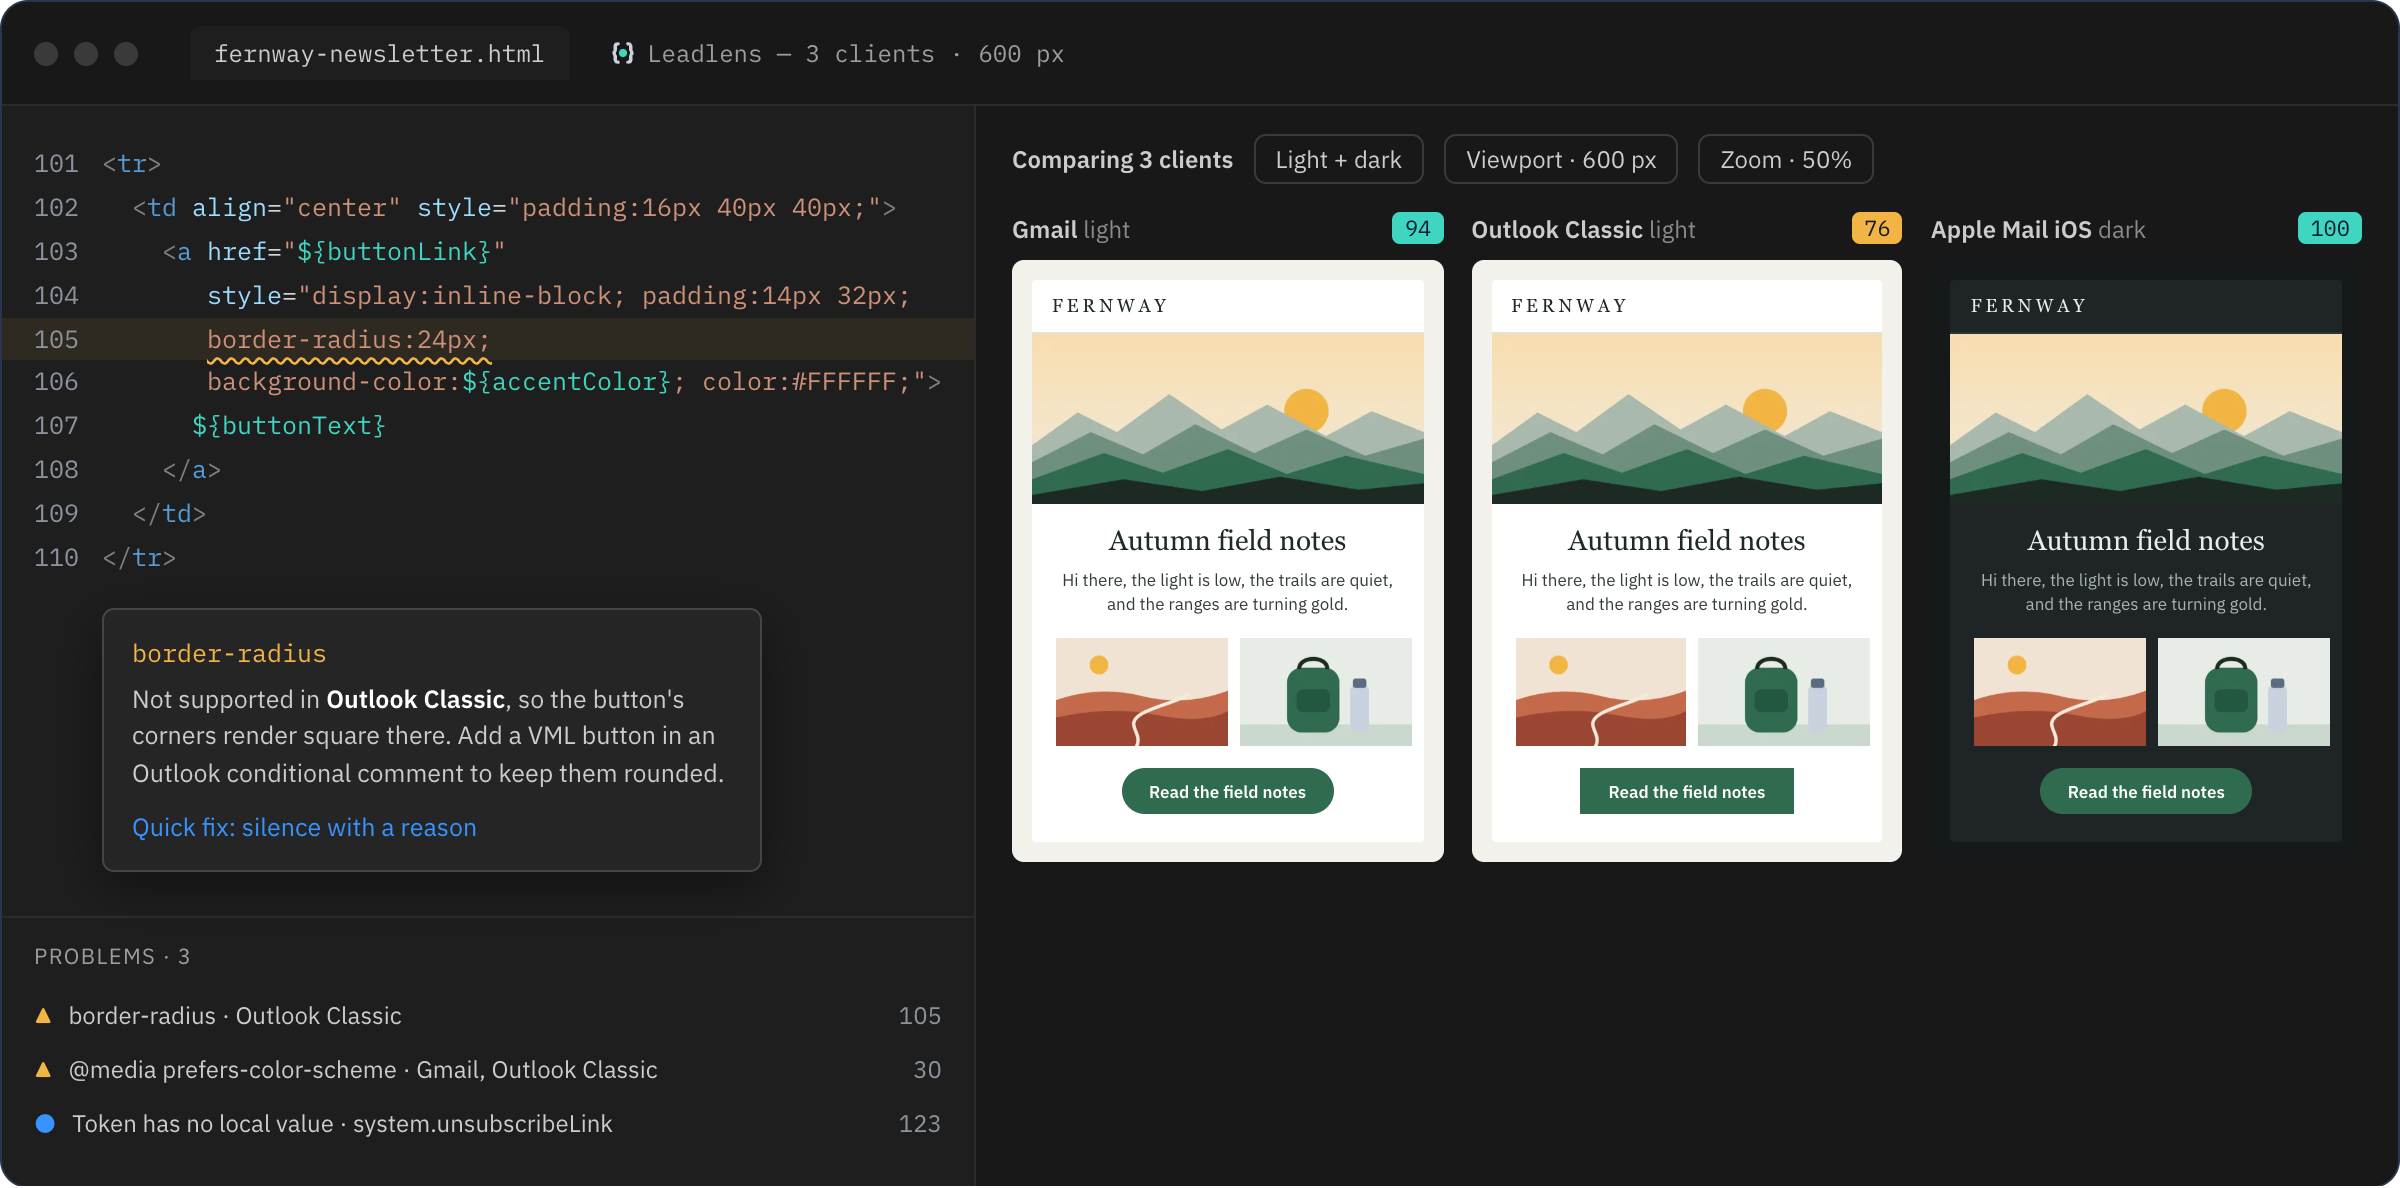
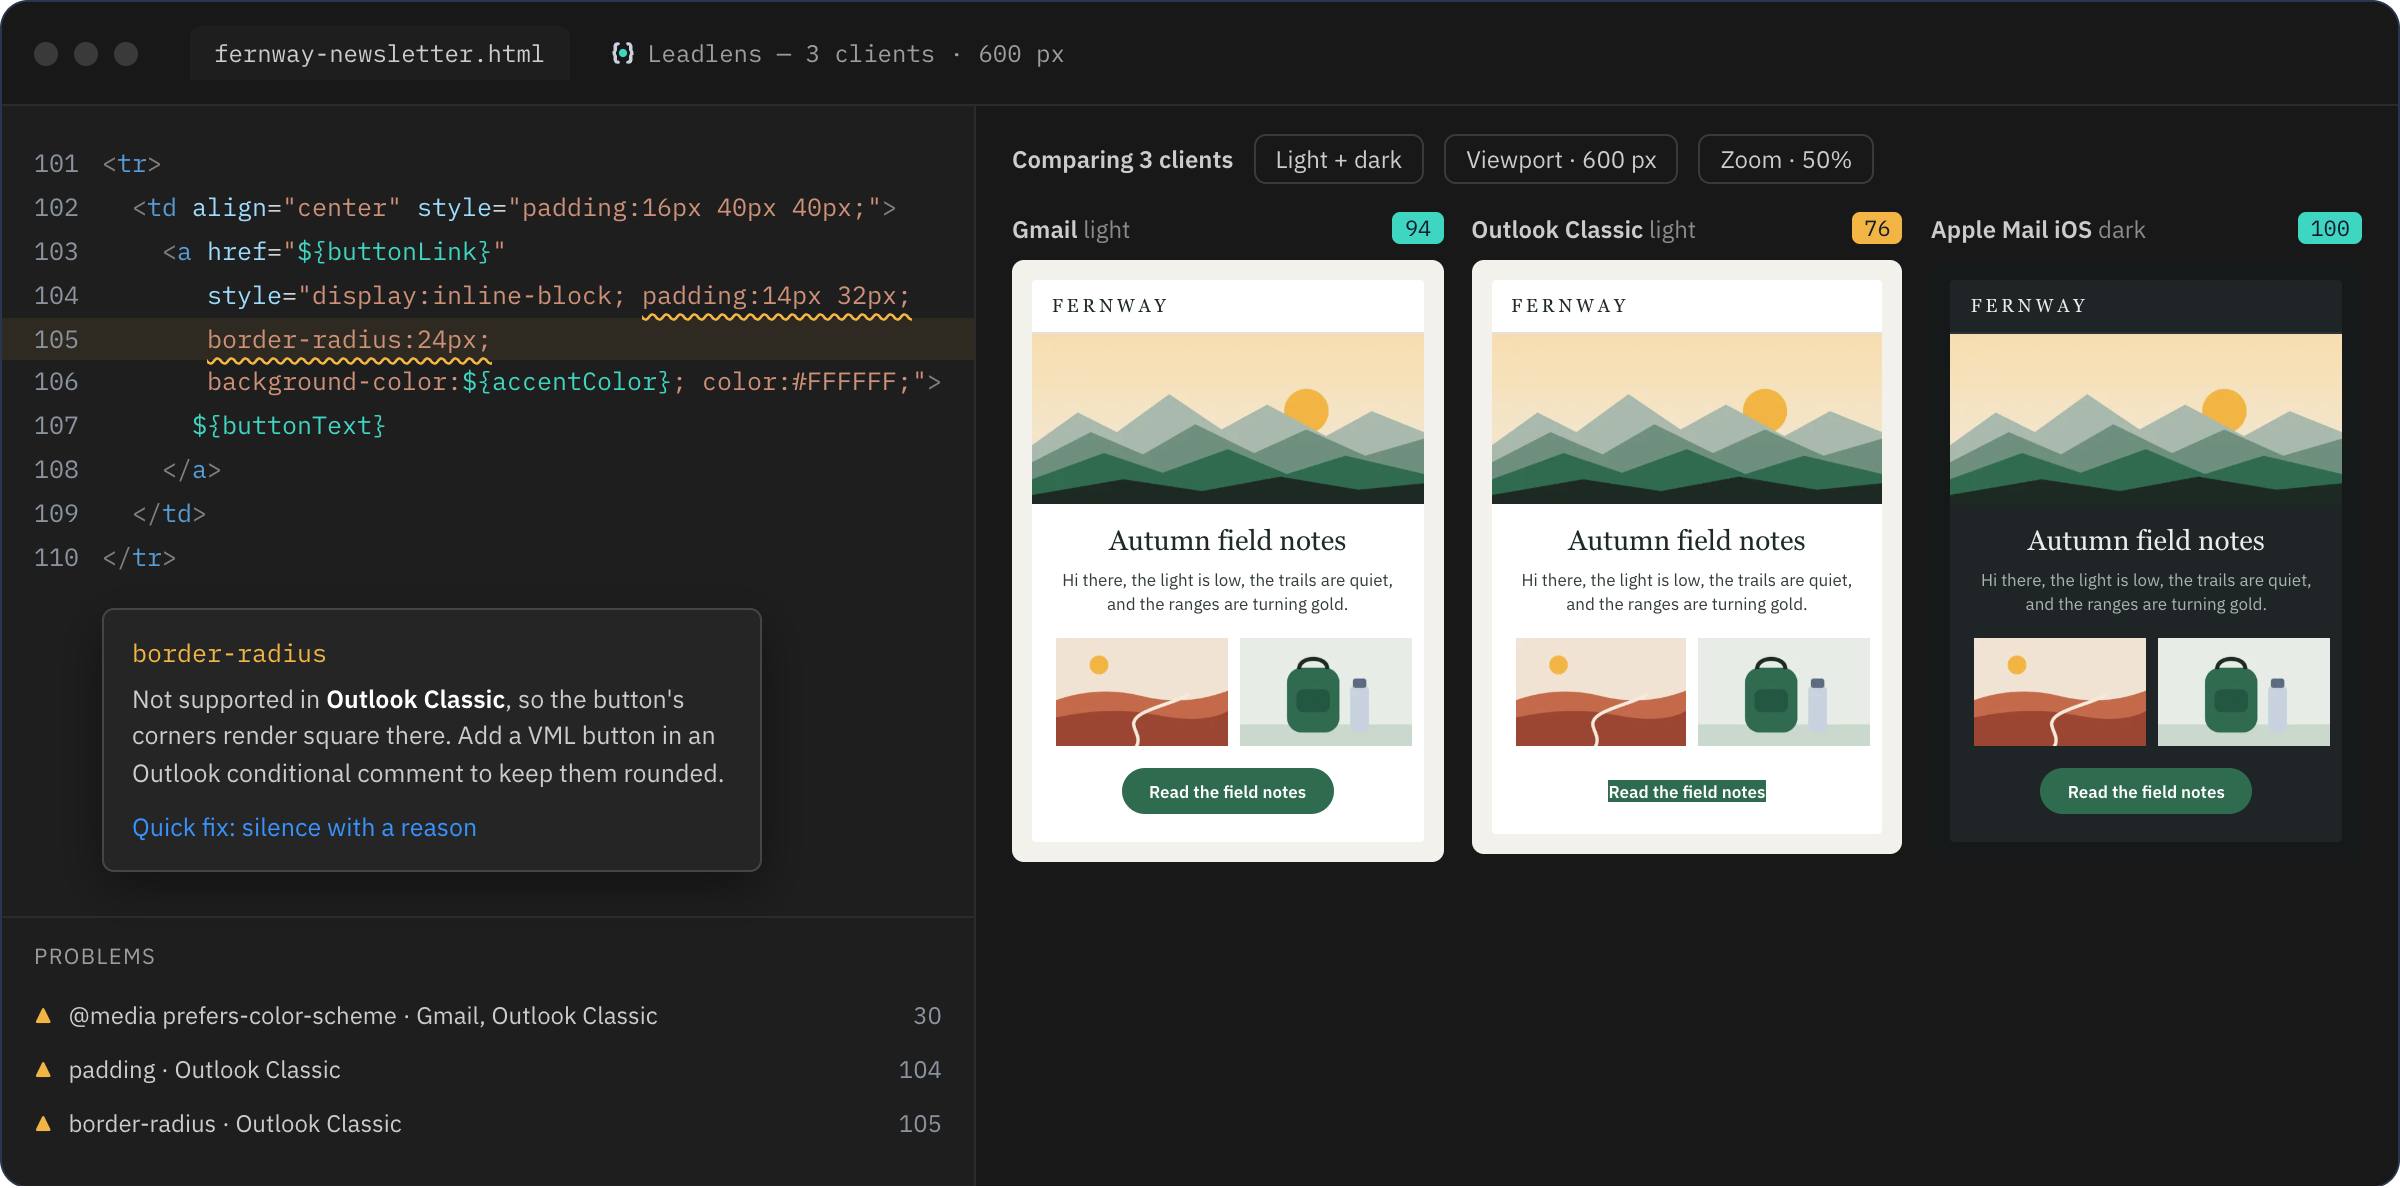
Show the Outlook button as the preview renders it
The illustration showed a padded, square-cornered button in Outlook Classic. The simulation strips the button's display, padding and border-radius, leaving highlighted text, and Leadlens warns about the padding as well as the border-radius. The illustration now shows both warnings and that render, and its Problems list no longer claims a total.

diff --git a/README.md b/README.md
@@ -8,7 +8,7 @@
 [![MIT licence](https://img.shields.io/badge/licence-MIT-0E8F80?labelColor=121A2B)](https://github.com/harrison-jennings/leadlens/blob/main/LICENSE)
 [![Website](https://img.shields.io/badge/website-leadlens.harrisonjennings.au-0E8F80?labelColor=121A2B)](https://leadlens.harrisonjennings.au)
 
-![Leadlens in VS Code: a Marketo template with a border-radius warning for Outlook Classic and its explanation, beside the email previewed in Gmail, Outlook Classic with a square button, and Apple Mail iOS in dark mode](https://raw.githubusercontent.com/harrison-jennings/leadlens/main/docs/brand/leadlens-product.png)
+![Leadlens in VS Code: a Marketo template with a border-radius warning for Outlook Classic and its explanation, beside the email previewed in Gmail, Outlook Classic with the button reduced to highlighted text, and Apple Mail iOS in dark mode](https://raw.githubusercontent.com/harrison-jennings/leadlens/main/docs/brand/leadlens-product.png)
 
 Leadlens shows how your email will look across 21 email clients as you type, flags what will break before it ships, and understands Marketo Email Editor 2.0, including variables, modules, editable regions and tokens. You get answers about your actual template, not false alarms about Marketo syntax.
 
